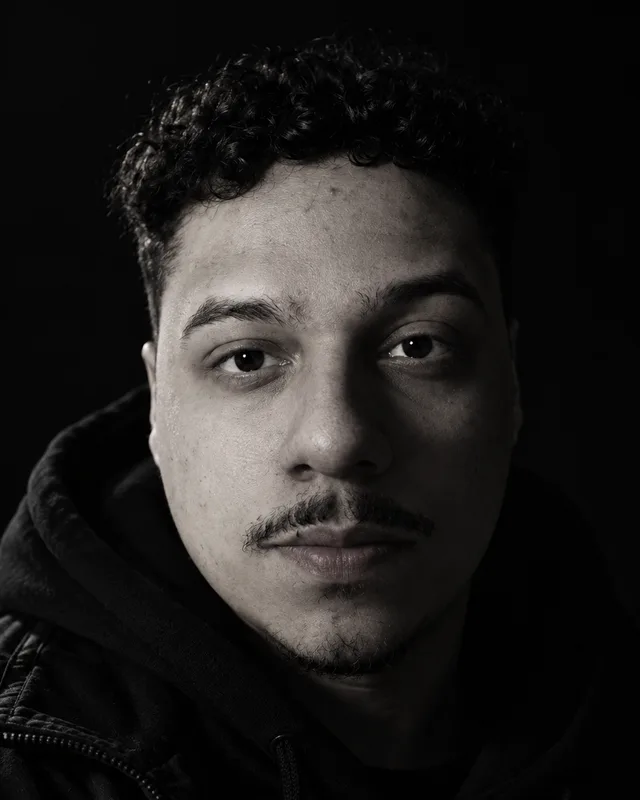
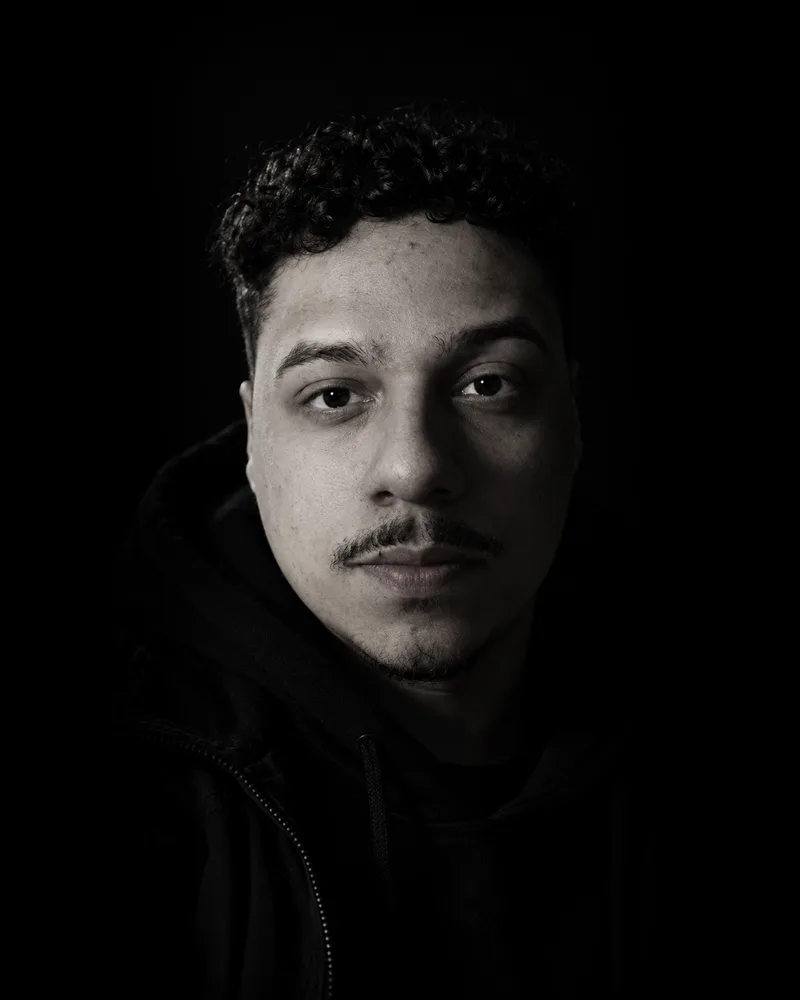
feat: update author card layout and biography content on About page

diff --git a/frontend/src/components/page/AuthorCard.tsx b/frontend/src/components/page/AuthorCard.tsx
@@ -7,8 +7,9 @@ import { prose } from "./classes"
 export interface Author {
   name: string
   role: string
-  bio: string
-  // Retrato em /public (ex.: "/brand/marcos.webp"), de preferência 4:5. Sem
+  // Um item por parágrafo.
+  bio: string[]
+  // Retrato em /public (ex.: "/brand/marcos.webp"), de preferência vertical (4:5), com o rosto afastado das bordas. Sem
   // ele, o painel mostra as iniciais.
   photo?: string
   links: { href: string; label: string; icon?: "github" | "linkedin" }[]
@@ -30,28 +31,28 @@ const pill =
   "inline-flex min-h-11 items-center gap-2 rounded-md border border-border px-3.5 font-sans text-body-sm text-foreground transition-colors duration-200 hover:border-input hover:bg-muted focus-visible:outline-2 focus-visible:outline-offset-2 focus-visible:outline-ring"
 
 /**
- * Quem faz o projeto. Um painel único: o retrato em formato vertical ocupa a
- * lateral inteira (no celular, o topo), e ao lado vêm nome, função, texto e
- * links. O retrato entra com uma leve aproximação, parado com movimento
- * reduzido.
+ * Quem faz o projeto. O retrato aparece inteiro, em 4:5,
+ * sem recorte: ao lado no desktop, acima no celular. Nome, função, texto e
+ * links ficam na outra coluna. O retrato entra com uma leve aproximação, parado
+ * com movimento reduzido.
  */
 export function AuthorCard({ author }: { author: Author }) {
   const { name, role, bio, photo, links } = author
   const isStatic = useStaticMotion()
   return (
-    <div className="grid max-w-[40rem] overflow-hidden rounded-lg border border-border sm:grid-cols-[13.5rem_minmax(0,1fr)]">
-      <div className="relative aspect-[4/3] overflow-hidden bg-muted sm:aspect-auto sm:min-h-[17rem]">
+    <div className="flex max-w-[48rem] flex-col gap-7 sm:flex-row sm:items-start sm:gap-10">
+      <div className="relative aspect-[4/5] w-64 shrink-0 overflow-hidden rounded-lg border border-border bg-muted sm:w-72">
         {photo ? (
           <motion.img
             src={photo}
             alt={`Foto de ${name}`}
-            width={640}
-            height={800}
-            className="absolute inset-0 size-full object-cover object-[50%_30%]"
+            width={800}
+            height={1000}
+            className="absolute inset-0 size-full object-cover"
             {...(isStatic
               ? {}
               : {
-                  initial: { opacity: 0, scale: 1.08 },
+                  initial: { opacity: 0, scale: 1.06 },
                   whileInView: { opacity: 1, scale: 1 },
                   viewport: { once: true, amount: 0.2 },
                   transition: { duration: 0.9, ease: EASE },
@@ -66,7 +67,7 @@ export function AuthorCard({ author }: { author: Author }) {
           </div>
         )}
       </div>
-      <div className="flex flex-col justify-center gap-5 p-6 sm:p-8">
+      <div className="flex min-w-0 max-w-[32rem] flex-1 flex-col gap-5 sm:py-1">
         <div className="flex flex-col gap-1">
           <p className="font-sans text-caption font-medium tracking-[0.12em] text-muted-foreground uppercase">
             {role}
@@ -75,7 +76,13 @@ export function AuthorCard({ author }: { author: Author }) {
             {name}
           </p>
         </div>
-        <p className={prose}>{bio}</p>
+        <div className="flex flex-col gap-3">
+          {bio.map((paragraph) => (
+            <p key={paragraph} className={prose}>
+              {paragraph}
+            </p>
+          ))}
+        </div>
         <ul className="flex flex-wrap gap-2">
           {links.map(({ href, label, icon }) => {
             const Icon = icon ? icons[icon] : null

diff --git a/frontend/src/pages/Sobre.test.tsx b/frontend/src/pages/Sobre.test.tsx
@@ -100,7 +100,15 @@ describe("Sobre", () => {
     expect(
       screen.getByRole("link", { name: /Enviar sugestão/ }),
     ).toHaveAttribute("href", `${repository}/issues`)
-    expect(container.textContent).not.toMatch(/multicloud|\b(AWS|Azure)\b/i)
+    // AWS e Azure só aparecem na biografia (experiência de quem faz), nunca
+    // como parte do projeto.
+    const outsideAuthor = [...container.querySelectorAll("section")]
+      .filter(
+        (section) => section.getAttribute("aria-labelledby") !== "quem-title",
+      )
+      .map((section) => section.textContent)
+      .join(" ")
+    expect(outsideAuthor).not.toMatch(/multicloud|\b(AWS|Azure)\b/i)
   })
 
   it("não repete nenhum id", () => {
@@ -123,5 +131,14 @@ describe("Sobre", () => {
     expect(
       within(section).getByRole("link", { name: "LinkedIn" }),
     ).toBeInTheDocument()
+  })
+
+  it("mantém o papel de cada camada e a apresentação de quem faz", () => {
+    renderPage()
+    expect(screen.getByText("O que você abre no navegador")).toBeInTheDocument()
+    expect(
+      screen.getByText("Infraestrutura · Cloud · DevOps"),
+    ).toBeInTheDocument()
+    expect(screen.getByText(/Linux Essentials/)).toBeInTheDocument()
   })
 })

diff --git a/frontend/src/pages/Sobre.tsx b/frontend/src/pages/Sobre.tsx
@@ -43,16 +43,18 @@ const delivery: Layer = {
   tech: [{ logo: "GitHub", label: "GitHub Actions" }],
 }
 
-// DADOS DE EXEMPLO (exceto a foto e o GitHub): trocar o LinkedIn e o texto antes de publicar.
 const author: Author = {
   name: "Marcos Souza",
-  role: "DevOps e infraestrutura",
+  role: "Infraestrutura · Cloud · DevOps",
   photo: "/brand/marcos.webp",
-  bio: "Texto de exemplo: aqui entram duas ou três frases sobre o que eu faço e por que construí o Probekit.",
+  bio: [
+    "Trabalho com infraestrutura de TI há alguns anos, principalmente com Linux, AWS, Azure e automação. Tenho certificações AWS, Microsoft Azure e Linux Essentials, e interesse especial em DevOps e SRE.",
+    "Gosto de desenvolver projetos próprios para explorar tecnologias e colocar ideias em prática. O Probekit nasceu dessa vontade de aprender, experimentar e compartilhar o que construo.",
+  ],
   links: [
     { href: "https://github.com/msouza10", label: "GitHub", icon: "github" },
     {
-      href: "https://www.linkedin.com/in/exemplo",
+      href: "https://www.linkedin.com/in/marcos-vinicius-3905b1206/",
       label: "LinkedIn",
       icon: "linkedin",
     },

diff --git a/frontend/src/components/page/page.test.tsx b/frontend/src/components/page/page.test.tsx
@@ -127,7 +127,12 @@ describe("sumário Nesta página", () => {
 })
 
 describe("AuthorCard", () => {
-  const base = { name: "Ana Lima", role: "Dev", bio: "Texto.", links: [] }
+  const base = {
+    name: "Ana Lima",
+    role: "Dev",
+    bio: ["Texto.", "Outro parágrafo."],
+    links: [],
+  }
 
   it("usa a foto quando existe, com texto alternativo", () => {
     render(<AuthorCard author={{ ...base, photo: "/brand/ana.jpg" }} />)

diff --git a/DESIGN.md b/DESIGN.md
@@ -266,7 +266,7 @@ Sobre, Arquitetura e as páginas de texto futuras seguem um esqueleto, montado c
 5. **`FactList`**: termo e detalhe com linha fina entre os itens, para stack e princípios.
 6. **`SourceLinks`**: links do repositório no fim da seção, em sans, abrindo em outra aba; apontam para o arquivo exato (por exemplo, o ADR certo), não para a pasta inteira.
 7. **`StackMap`** (Sobre, "Do que é feito"): camadas num trilho vertical (Site, API, Servidor), cada uma com papel em uma linha, chips de logo + nome e o detalhe. A linha do trilho se desenha uma vez e um ponto desce por ela, como um pedido. A entrega (CI/CD) fica fora do trilho, separada por linha fina e rotulada "Publica as três camadas acima", porque não faz parte do caminho de um pedido. Logos vêm de `components/icons/techLogos.tsx`, em cor única (`currentColor`); o hover só troca a cor.
-8. **`AuthorCard`** (Sobre, "Quem faz"): foto redonda de 96px (sem foto, as iniciais em círculo), nome, função, parágrafo e links. Dados em um objeto `author` na página.
+8. **`AuthorCard`** (Sobre, "Quem faz"): retrato em 4:5 (WebP em `public/brand/`) com o rosto afastado das bordas, num quadro de 18rem ao lado do texto no desktop e 16rem acima dele no celular, borda fina e cantos de 8px. O retrato é a foto reduzida sobre fundo preto, com as bordas esmaecidas para o preto (feito na imagem, não em CSS), para o rosto não ocupar o quadro inteiro; `object-cover` não corta nada porque a proporção do arquivo é a do quadro. Na outra coluna, função em caixa alta, nome em serifa, parágrafos (largura máxima de 32rem) e links em botões com ícone (GitHub, LinkedIn). O retrato entra com uma leve aproximação (parado com movimento reduzido). Sem foto, o espaço mostra as iniciais. Dados em um objeto `author` na página.
 9. **`CreditsGrid`** (Sobre, "Créditos"): só os logos das tecnologias, em grade de 5 colunas (2 no celular) com linhas finas, nome embaixo e cada célula sendo um link para a página inicial da tecnologia (outra aba). No hover ou foco o logo clareia e fica ampliado (`scale(1.3)`, 220ms) enquanto o mouse estiver em cima, voltando ao soltar, só com movimento permitido. Exceção deliberada à regra de hover sem deslocamento, restrita ao logo: célula, borda e texto não se mexem. Está no CSS (`.credit-link:hover .credit-logo`), não em classe `hover:scale`, para ficar claro que não vale para o resto do site.
 
 Movimento dessas peças: entrada ao rolar (`riseInView`, fade + subida curta, uma vez) e escalonada pela posição. Com movimento reduzido, ou sem `IntersectionObserver`, `useStaticMotion` deixa tudo parado no estado final e sem o ponto do trilho (`lib/motion.ts`).
